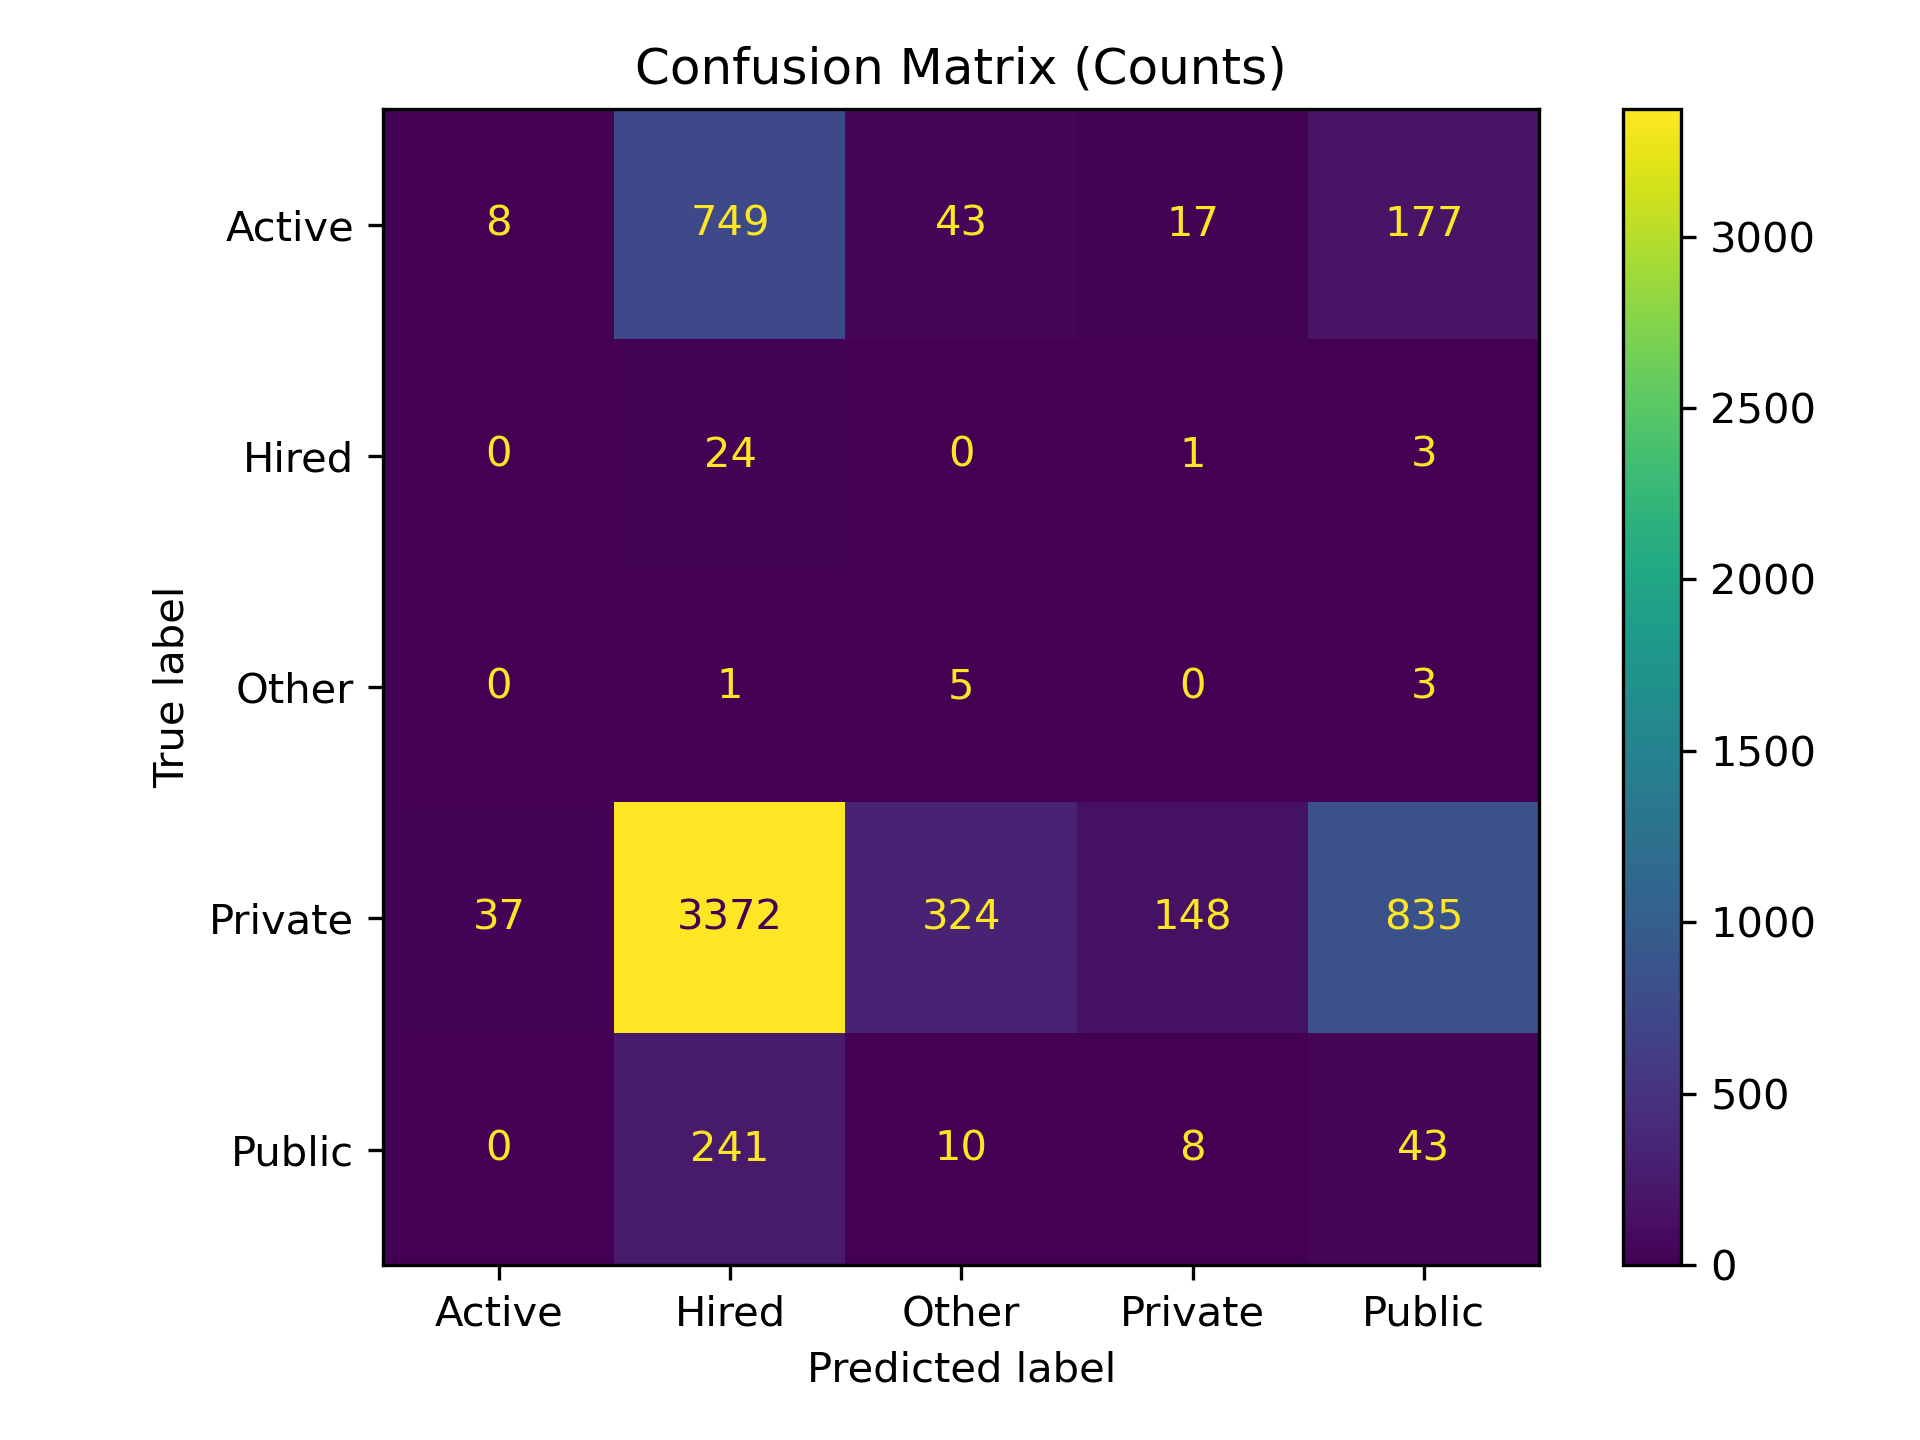
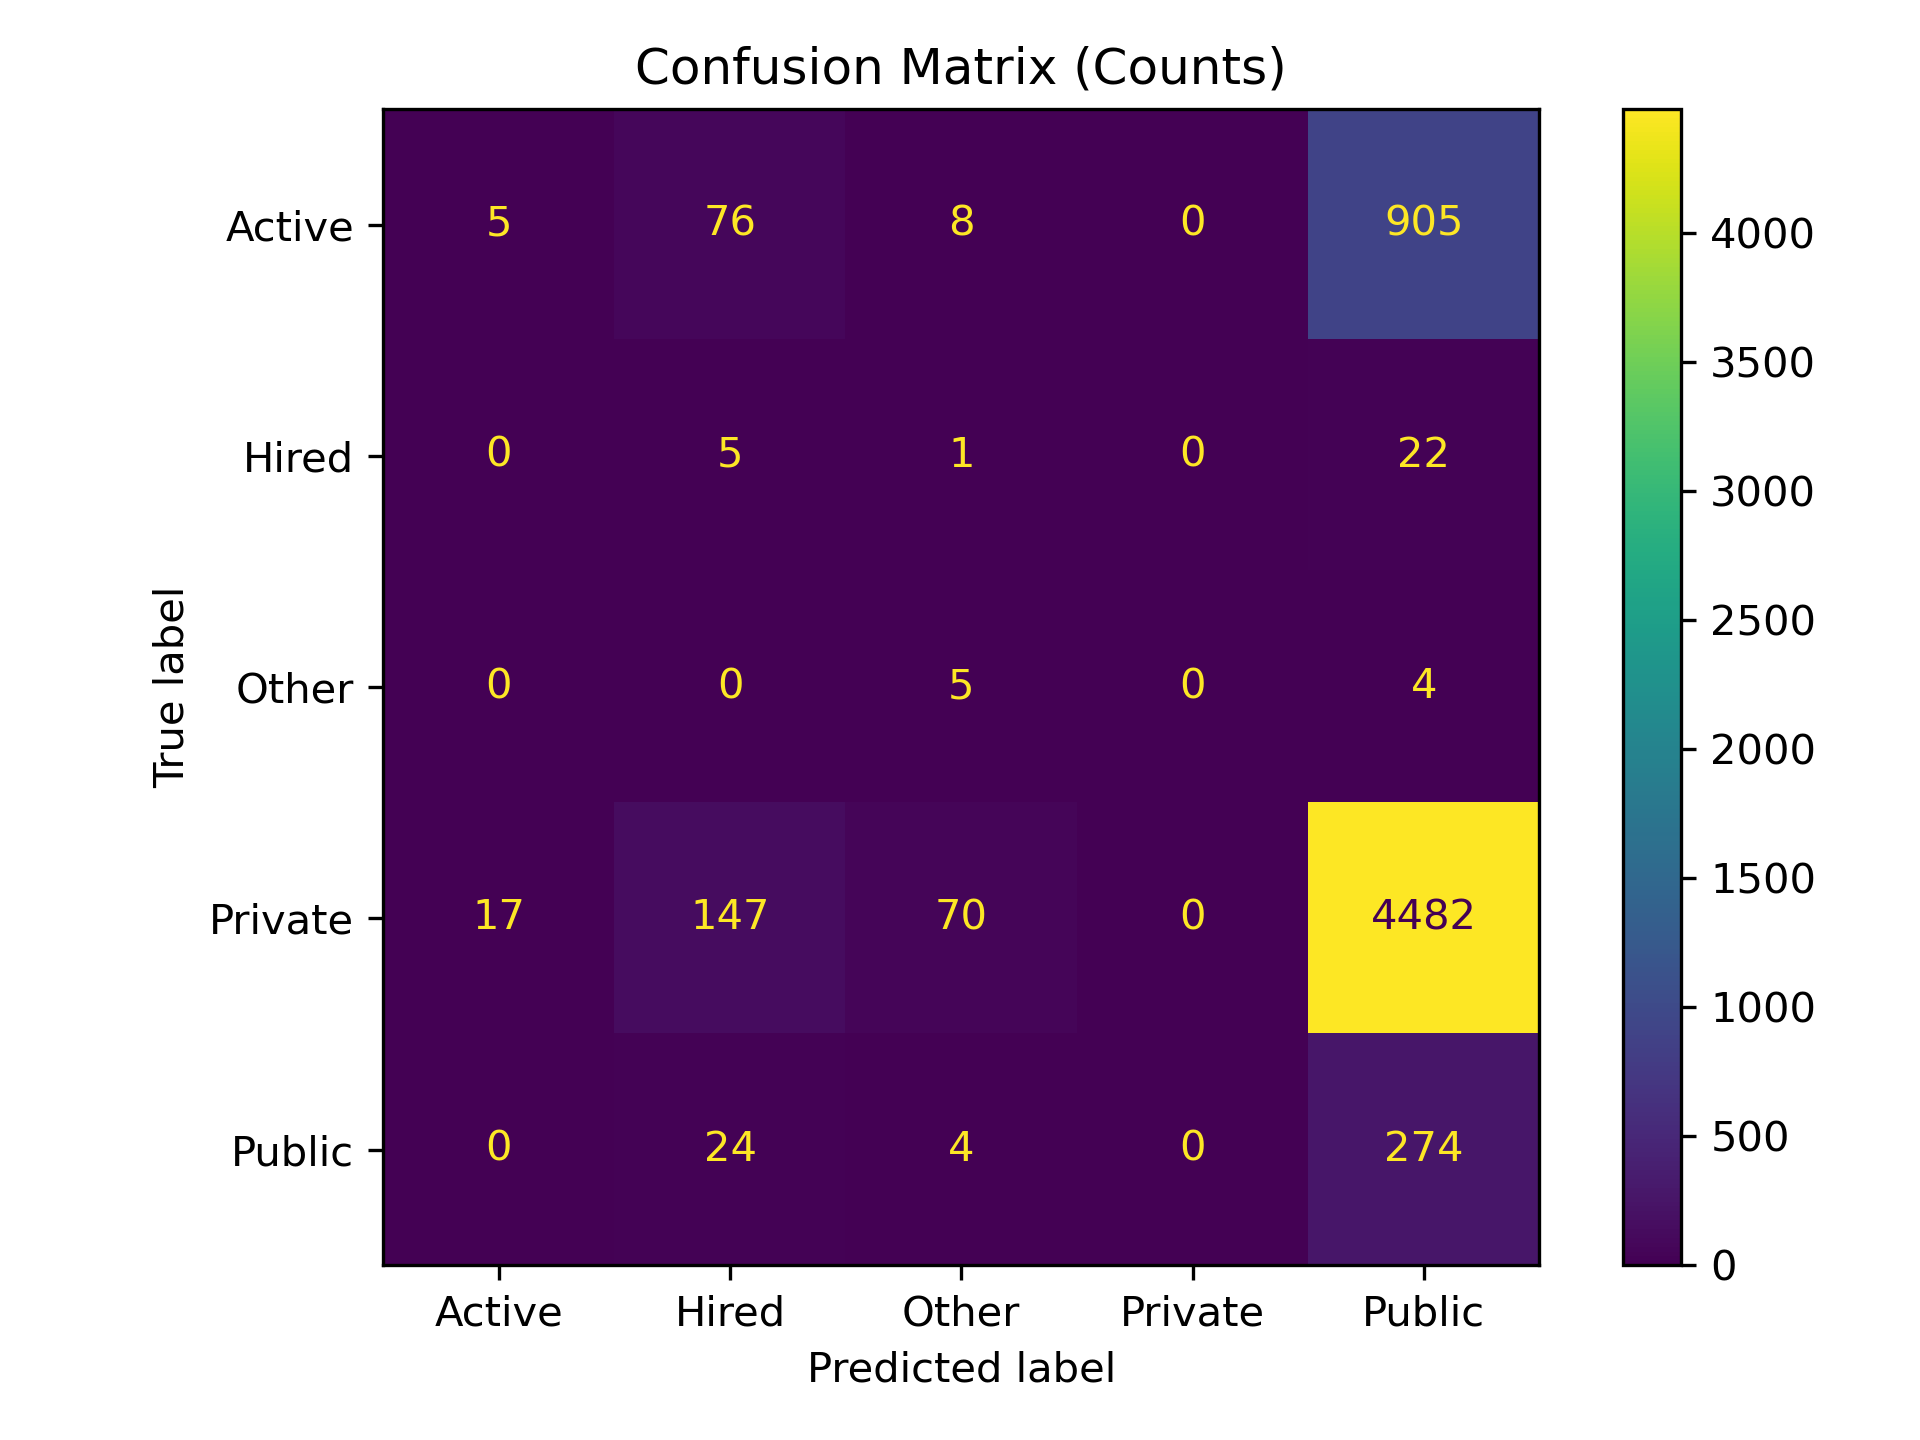
changed average_method = min

diff --git a/corr.py b/corr.py
@@ -1,5 +1,4 @@
 import pandas as pd
-import numpy as np
 import matplotlib.pyplot as plt
 import seaborn as sns
 from sklearn.metrics import normalized_mutual_info_score
@@ -84,20 +83,21 @@ merged_data["binned_cumdist"] = pd.cut(merged_data["cumdist"], bins=bins)
 merged_data["binned_trippurp"] = merged_data["trippurp"].cat.codes
 merged_data["binned_mainmode"] = merged_data["mainmode"].cat.codes
 
-
+# we use average_method = min here because in NMI, we want to have our demoninator
+# to be min(H(X), H(Y))
 print("Income Group Raw Data - NMI")
-print("Income vs Vehicles:", normalized_mutual_info_score(merged_data["weekly_hhinc_group"], merged_data["binned_totalvehs"]))
-print("Income vs Trip Time:", normalized_mutual_info_score(merged_data["weekly_hhinc_group"], merged_data["binned_triptime"]))
-print("Income vs Trip Distance:", normalized_mutual_info_score(merged_data["weekly_hhinc_group"], merged_data["binned_cumdist"]))
-print("Income vs Trip Purpose:", normalized_mutual_info_score(merged_data["weekly_hhinc_group"], merged_data["binned_trippurp"]))
-print("Income vs Main Mode:", normalized_mutual_info_score(merged_data["weekly_hhinc_group"], merged_data["binned_mainmode"]))
+print("Income vs Vehicles:", normalized_mutual_info_score(merged_data["weekly_hhinc_group"], merged_data["binned_totalvehs"], average_method='min'))
+print("Income vs Trip Time:", normalized_mutual_info_score(merged_data["weekly_hhinc_group"], merged_data["binned_triptime"], average_method='min'))
+print("Income vs Trip Distance:", normalized_mutual_info_score(merged_data["weekly_hhinc_group"], merged_data["binned_cumdist"], average_method='min'))
+print("Income vs Trip Purpose:", normalized_mutual_info_score(merged_data["weekly_hhinc_group"], merged_data["binned_trippurp"], average_method='min'))
+print("Income vs Main Mode:", normalized_mutual_info_score(merged_data["weekly_hhinc_group"], merged_data["binned_mainmode"], average_method='min'))
 
 print("LGA Group Raw Data - NMI")
-print("LGA vs Vehicles:", normalized_mutual_info_score(merged_data["homelga"], merged_data["binned_totalvehs"]))
-print("LGA vs Trip Time:", normalized_mutual_info_score(merged_data["homelga"], merged_data["binned_triptime"]))
-print("LGA vs Trip Distance:", normalized_mutual_info_score(merged_data["homelga"], merged_data["binned_cumdist"]))
-print("LGA vs Trip Purpose:", normalized_mutual_info_score(merged_data["homelga"], merged_data["binned_trippurp"]))
-print("LGA vs Main Mode:", normalized_mutual_info_score(merged_data["homelga"], merged_data["binned_mainmode"]))
+print("LGA vs Vehicles:", normalized_mutual_info_score(merged_data["homelga"], merged_data["binned_totalvehs"], average_method='min'))
+print("LGA vs Trip Time:", normalized_mutual_info_score(merged_data["homelga"], merged_data["binned_triptime"], average_method='min'))
+print("LGA vs Trip Distance:", normalized_mutual_info_score(merged_data["homelga"], merged_data["binned_cumdist"], average_method='min'))
+print("LGA vs Trip Purpose:", normalized_mutual_info_score(merged_data["homelga"], merged_data["binned_trippurp"], average_method='min'))
+print("LGA vs Main Mode:", normalized_mutual_info_score(merged_data["homelga"], merged_data["binned_mainmode"], average_method='min'))
 
 #scatterplots for pearson correlations
 pearson_pairs_income = [
